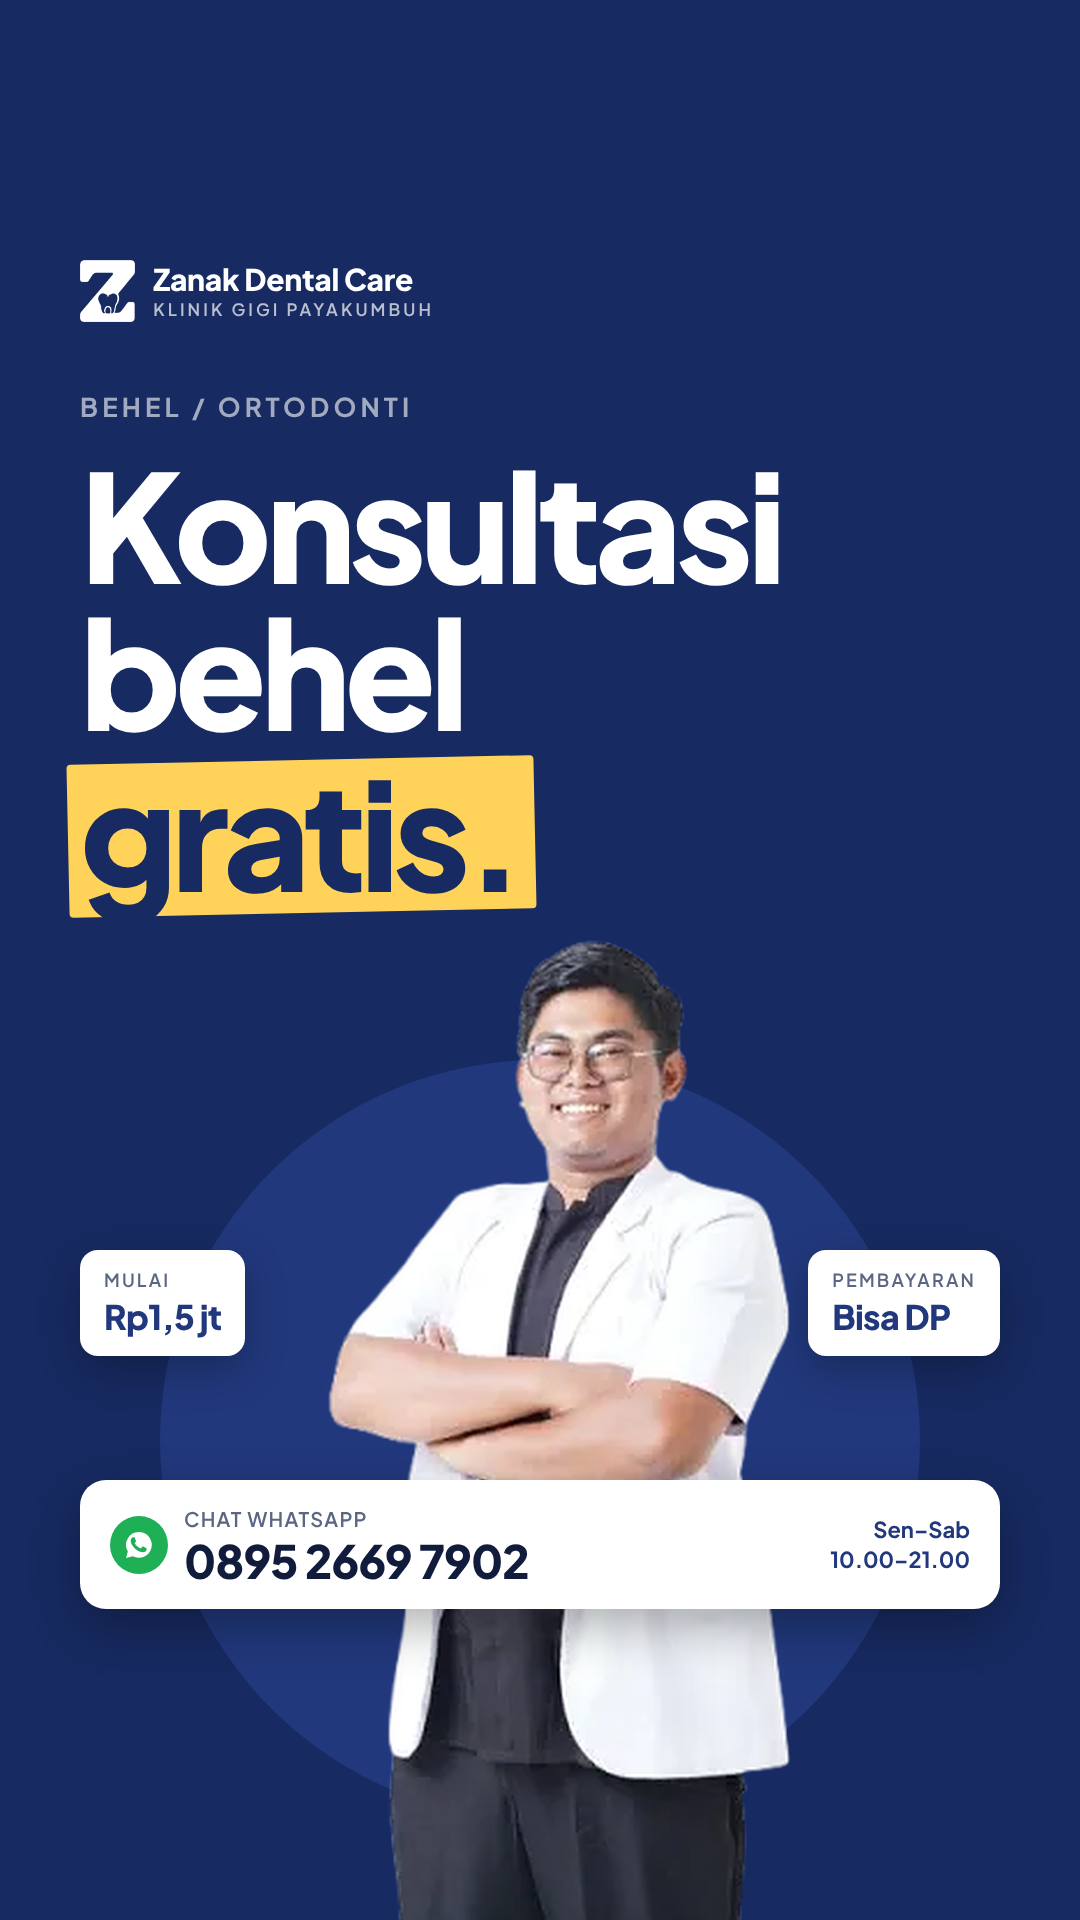
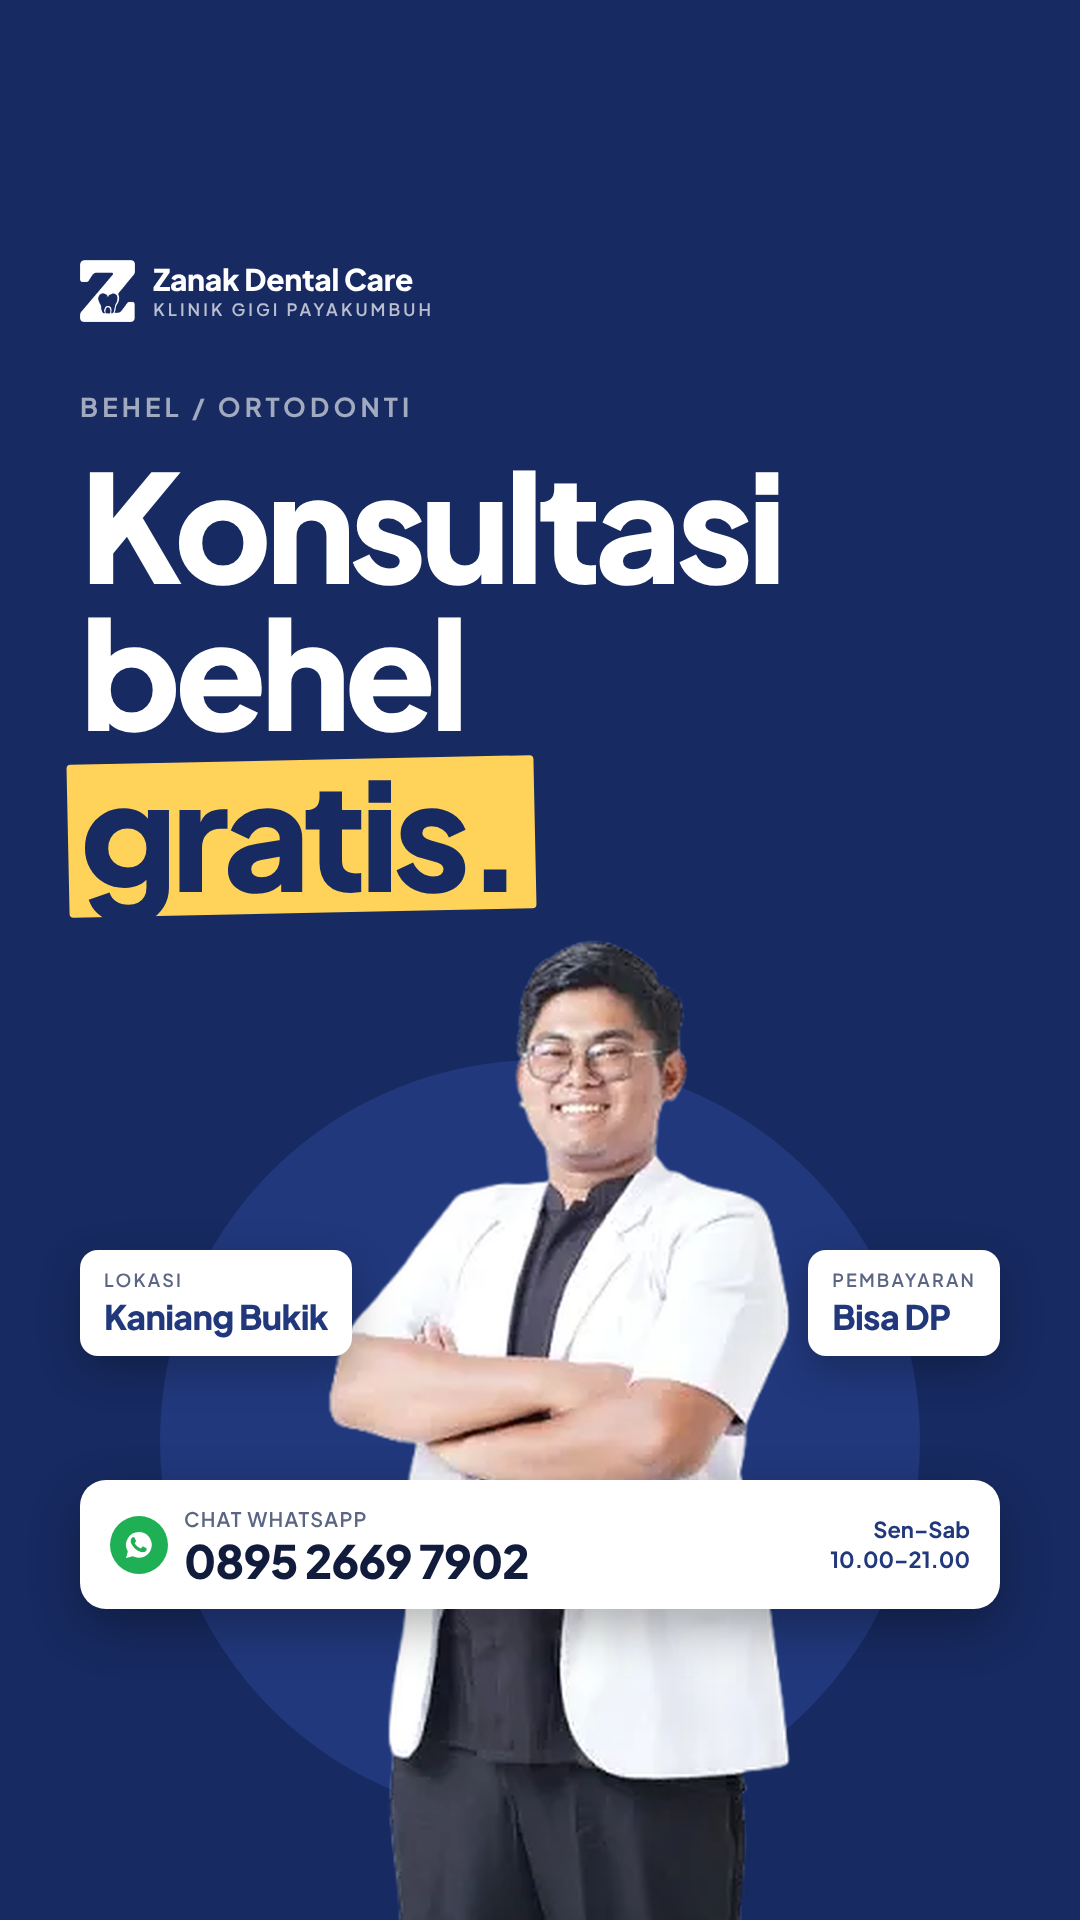
Remove prices from Meta ad creatives
Replace price blocks with opening hours, location and DP info.

Claude-Session: https://claude.ai/code/session_015NvdVUSUtMQb5GQu6dBSmx

Changed region(s): [[0.0917, 0.625, 0.3361, 0.7188]]

diff --git a/marketing/meta-ads-nov2026/src/01-behel-feed.html b/marketing/meta-ads-nov2026/src/01-behel-feed.html
@@ -12,7 +12,7 @@
 .tag b { display: block; font-size: 25px; font-weight: 800; letter-spacing: -0.01em; color: var(--ink); }
 .tag span { font-size: 20px; font-weight: 500; color: #5A6684; }
 .band { position: absolute; left: 0; right: 0; bottom: 0; height: 354px; background: var(--navy-deep); color: #fff; padding: 52px 72px 0; }
-.facts { display: grid; grid-template-columns: 1.25fr 1fr 1.1fr; border-bottom: 1px solid rgba(255,255,255,.18); padding-bottom: 40px; }
+.facts { display: grid; grid-template-columns: 0.9fr 1.2fr 1fr; border-bottom: 1px solid rgba(255,255,255,.18); padding-bottom: 40px; }
 .facts div { padding-right: 20px; }
 .facts div + div { padding-left: 34px; border-left: 1px solid rgba(255,255,255,.18); }
 .facts small { display: block; font-size: 19px; font-weight: 600; letter-spacing: .12em; text-transform: uppercase; opacity: .62; margin-bottom: 10px; }
@@ -37,9 +37,9 @@
 
   <div class="band">
     <div class="facts">
-      <div><small>Behel mulai</small><b>Rp1,5 jt</b><span style="font-size:20px;opacity:.7;font-weight:500"> /rahang</span></div>
       <div><small>Pembayaran</small><b>Bisa DP</b></div>
       <div><small>Senin–Sabtu</small><b>10.00–21.00</b></div>
+      <div><small>Hari Minggu</small><b>Reservasi</b></div>
     </div>
     <div class="cta">
       <div class="wa"><div class="ico"><svg viewBox="0 0 24 24" fill="#fff"><path d="M12 2.2a9.7 9.7 0 0 0-8.4 14.6L2.3 21.8l5.1-1.3A9.7 9.7 0 1 0 12 2.2Zm5.6 13.7c-.2.7-1.4 1.3-2 1.4-.5.1-1.2.1-1.9-.1-.4-.1-1-.3-1.7-.6-3-1.3-4.9-4.3-5-4.5-.2-.2-1.2-1.6-1.2-3s.7-2.2 1-2.5c.3-.3.6-.4.8-.4h.6c.2 0 .4 0 .6.5l.9 2.1c.1.2.1.4 0 .5l-.3.5-.4.5c-.1.1-.3.3-.1.6.2.3.8 1.3 1.7 2.1 1.2 1 2.1 1.4 2.4 1.5.3.2.5.1.6-.1l.9-1.1c.2-.3.4-.2.7-.1l2 1c.3.1.5.2.5.3.1.2.1.7-.1 1.4Z"/></svg></div>

diff --git a/marketing/meta-ads-nov2026/src/04-scaling-story.html b/marketing/meta-ads-nov2026/src/04-scaling-story.html
@@ -10,7 +10,7 @@
 .photo span { position: absolute; left: 22px; bottom: 20px; background: rgba(17,28,61,.78); color: #fff; font-size: 20px; font-weight: 600; padding: 10px 18px; border-radius: 10px; }
 .cta { position: absolute; left: 80px; right: 80px; top: 1470px; background: var(--navy-deep); color: #fff; border-radius: 26px; padding: 28px 32px; display: flex; align-items: center; justify-content: space-between; }
 .price small { display: block; font-size: 19px; font-weight: 700; letter-spacing: .14em; text-transform: uppercase; opacity: .65; margin-bottom: 4px; }
-.price b { font-size: 60px; font-weight: 800; letter-spacing: -0.03em; line-height: 1; }
+.price b { font-size: 44px; font-weight: 800; letter-spacing: -0.03em; line-height: 1; }
 .cta .num { font-size: 36px; }
 .cta .wa .ico { width: 52px; height: 52px; }
 </style></head><body>
@@ -26,7 +26,7 @@
   <div class="photo"><img src="RuangPeriksa.webp"><span>Ruang periksa Zanak, Kaniang Bukik</span></div>
 
   <div class="cta">
-    <div class="price"><small>Mulai</small><b>Rp150rb</b></div>
+    <div class="price"><small>Senin–Sabtu</small><b>10.00–21.00</b></div>
     <div class="wa"><div class="ico"><svg viewBox="0 0 24 24" fill="#fff"><path d="M12 2.2a9.7 9.7 0 0 0-8.4 14.6L2.3 21.8l5.1-1.3A9.7 9.7 0 1 0 12 2.2Zm5.6 13.7c-.2.7-1.4 1.3-2 1.4-.5.1-1.2.1-1.9-.1-.4-.1-1-.3-1.7-.6-3-1.3-4.9-4.3-5-4.5-.2-.2-1.2-1.6-1.2-3s.7-2.2 1-2.5c.3-.3.6-.4.8-.4h.6c.2 0 .4 0 .6.5l.9 2.1c.1.2.1.4 0 .5l-.3.5-.4.5c-.1.1-.3.3-.1.6.2.3.8 1.3 1.7 2.1 1.2 1 2.1 1.4 2.4 1.5.3.2.5.1.6-.1l.9-1.1c.2-.3.4-.2.7-.1l2 1c.3.1.5.2.5.3.1.2.1.7-.1 1.4Z"/></svg></div>
       <div><div class="lbl">Chat WhatsApp</div><div class="num">0895 2669 7902</div></div></div>
   </div>

diff --git a/marketing/meta-ads-nov2026/src/03-scaling-feed.html b/marketing/meta-ads-nov2026/src/03-scaling-feed.html
@@ -11,7 +11,7 @@
 .hl { font-size: 84px; }
 .row { position: absolute; left: 72px; right: 72px; bottom: 64px; display: flex; justify-content: space-between; align-items: flex-end; }
 .price small { display: block; font-size: 22px; font-weight: 700; letter-spacing: .14em; text-transform: uppercase; color: #5A6684; margin-bottom: 6px; }
-.price b { font-size: 88px; font-weight: 800; letter-spacing: -0.04em; color: var(--navy); line-height: 1; }
+.price b { font-size: 64px; font-weight: 800; letter-spacing: -0.04em; color: var(--navy); line-height: 1; }
 .price b span { font-size: 40px; letter-spacing: -0.02em; }
 .wabox { text-align: right; }
 .wabox .wa { flex-direction: row-reverse; }
@@ -33,11 +33,11 @@
 
   <div class="rule"></div>
   <div class="row">
-    <div class="price"><small>Scaling mulai</small><b>Rp150<span>ribu</span></b></div>
+    <div class="price"><small>Senin–Sabtu</small><b>10.00–21.00</b></div>
     <div class="wabox">
       <div class="wa"><div class="ico"><svg viewBox="0 0 24 24" fill="#fff"><path d="M12 2.2a9.7 9.7 0 0 0-8.4 14.6L2.3 21.8l5.1-1.3A9.7 9.7 0 1 0 12 2.2Zm5.6 13.7c-.2.7-1.4 1.3-2 1.4-.5.1-1.2.1-1.9-.1-.4-.1-1-.3-1.7-.6-3-1.3-4.9-4.3-5-4.5-.2-.2-1.2-1.6-1.2-3s.7-2.2 1-2.5c.3-.3.6-.4.8-.4h.6c.2 0 .4 0 .6.5l.9 2.1c.1.2.1.4 0 .5l-.3.5-.4.5c-.1.1-.3.3-.1.6.2.3.8 1.3 1.7 2.1 1.2 1 2.1 1.4 2.4 1.5.3.2.5.1.6-.1l.9-1.1c.2-.3.4-.2.7-.1l2 1c.3.1.5.2.5.3.1.2.1.7-.1 1.4Z"/></svg></div>
         <div><div class="lbl">Booking via WhatsApp</div><div class="num">0895 2669 7902</div></div></div>
-      <p>Senin–Sabtu 10.00–21.00</p>
+      <p>Jl. Jend. Sudirman No. 7, Kaniang Bukik</p>
     </div>
   </div>
 </div>

diff --git a/marketing/meta-ads-nov2026/src/02-behel-story.html b/marketing/meta-ads-nov2026/src/02-behel-story.html
@@ -31,7 +31,7 @@
   <img class="doc" src="doctor.png">
 
   <div class="chips">
-    <div class="chip"><small>Mulai</small><b>Rp1,5 jt</b></div>
+    <div class="chip"><small>Lokasi</small><b>Kaniang Bukik</b></div>
     <div class="chip"><small>Pembayaran</small><b>Bisa DP</b></div>
   </div>
 
